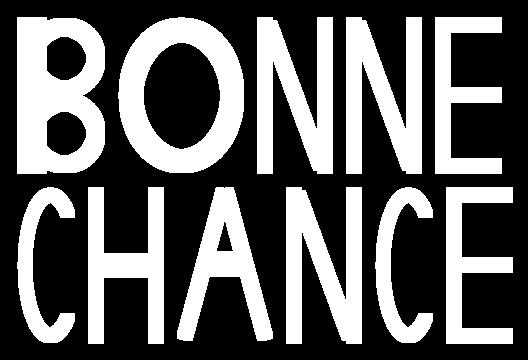
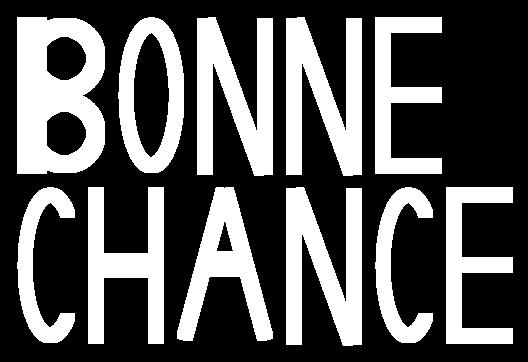
tres proche de l'enonce

diff --git a/src/main/java/Letter/LetterFactory.java b/src/main/java/Letter/LetterFactory.java
@@ -109,7 +109,7 @@ public final class LetterFactory {
      */
     public static BaseShape create_N() {
         Rectangle verticalBar = new Rectangle(halfStripeThickness, maxHeight);
-        Rectangle diagonalBar = new Rectangle(halfStripeThickness, maxHeight);
+        Rectangle diagonalBar = new Rectangle(halfStripeThickness, maxHeight+halfStripeThickness);
         Rectangle verticalBar2 = new Rectangle(halfStripeThickness, maxHeight);
         diagonalBar.rotate(diagonalBar.getCoords(), Math.toRadians(-20));
         diagonalBar.translate(diagonalBar.getCoords(), new Point2d(halfMaxWidth,0.));
@@ -127,8 +127,8 @@ public final class LetterFactory {
      * @return BaseShape containing the letter O
      */
     public static BaseShape create_O() {
-        Ellipse letter = new Ellipse(maxWidth, maxHeight/2);
-        Ellipse innerBody = new Ellipse(maxWidth - stripeThickness, maxHeight/2 - stripeThickness);
+        Ellipse letter = new Ellipse(halfMaxWidth, maxHeight/2);
+        Ellipse innerBody = new Ellipse(halfMaxWidth - halfStripeThickness, maxHeight/2 - halfStripeThickness);
         letter.remove(innerBody);
         return letter;
     }
